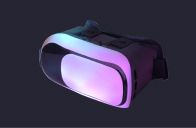
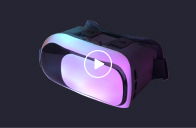
four commit

Changed region(s): [[0.4286, 0.375, 0.5816, 0.625]]

diff --git a/src/components/GetStarted/getStarted.module.scss b/src/components/GetStarted/getStarted.module.scss
@@ -1,0 +1,60 @@
+.getStarted {
+    margin-top: 200px;
+
+    &__neon {
+        color: transparent;
+        background-image: linear-gradient(to right, var(--linear-1), var(--linear-2));
+        background-clip: text;
+        text-transform: uppercase;
+        font-size: var(--caption-1-size);
+        font-weight: var(--caption-1-weight);
+        line-height: var(--caption-1-line);
+        letter-spacing: 5px;
+    }
+
+    &__head2 {
+        margin-top: 0;
+        width: 750px;
+        font-size: var(--head-2-size);
+        font-weight: var(--head-2-weight);
+        line-height: var(--head-2-line);
+        color: var(--white);
+        text-align: center;
+        letter-spacing: -1px;
+    }
+
+    &__video {
+        margin-bottom: 40px;
+    }
+
+    &__button {
+        margin-top: 30px;
+        max-width: 280px;
+        height: 76px;
+        padding: 1.5em 2.3em;
+        background: rgb(0, 255, 140);
+        box-shadow: 0 -150px 70px -120px rgb(0, 255, 208) inset,
+            0 -220px 70px -120px rgb(225, 0, 255) inset,
+            0 -220px 100px -120px rgb(200, 0, 255) inset;
+        background-position: 0 0;
+        border: 0;
+        text-transform: uppercase;
+        font-size: var(--button-1-size);
+        font-weight: var(--button-1-weight);
+        line-height: var(--button-1-line);
+        color: var(--white);
+        letter-spacing: 1.5px;
+        text-align: center;
+        animation: background 4s infinite alternate;
+        cursor: pointer;
+        transition: opacity 0.3s ease-in-out, box-shadow 0.3s ease-in-out;
+
+        &:hover {
+            opacity: 0.7;
+            box-shadow: 120px -150px 70px -120px rgb(28, 189, 160) inset,
+                120px -120px 70px -120px rgb(99, 208, 150) inset,
+                120px -180px 180px -180px rgb(255, 0, 136) inset;
+
+        }
+    }
+}

diff --git a/src/components/ChooseUs/ChooseUs.js b/src/components/ChooseUs/ChooseUs.js
@@ -19,8 +19,9 @@ function ChooseUs() {
                     <p>We are proud of our team of VR experts who are passionate about VR and dedicated to delivering the highest quality work. Our team consists of experienced VR developers, designers, and technicians who have a proven track record of creating immersive and engaging VR experiences.</p>
                 </details>
             </div>
-            <div>
-                <img src='/img/men3.svg' alt='men'/>
+            <div className='choose__media'>
+                <img className='media__men' src='/img/men3.svg' alt='men'/>
+                <img className='media__video' src='/img/video_choose.jpg' alt='video'/>
             </div>
         </div>
     );

diff --git a/src/components/AboutUs/aboutUs.module.scss b/src/components/AboutUs/aboutUs.module.scss
@@ -1,5 +1,13 @@
 .aboutUs {
     margin-top: 100px;
+    &__images{
+        position: relative;
+        .images__video{
+            position: absolute;
+            right: 250px;
+            bottom: 100px;
+        }
+    }
     &__texts {
         width: 562px;
         margin-top: 30px;
@@ -59,6 +67,7 @@
         text-align: center;
         animation: background 4s infinite alternate;
         cursor: pointer;
+        transition: opacity 0.3s ease-in-out, box-shadow 0.3s ease-in-out;
         &:hover{
             opacity: 0.7;
             box-shadow: 120px -150px 70px -120px rgb(28, 189, 160) inset,

diff --git a/src/components/GetStarted/GetStarted.js b/src/components/GetStarted/GetStarted.js
@@ -1,0 +1,16 @@
+import './getStarted.module.scss';
+
+
+function getStarted(){
+    return(
+        <div className='getStarted d-flex flex-column align-center'> 
+            <p className='getStarted__neon'>How get started</p>
+            <h1 className='getStarted__head2'>Bringing Your Virtual Reality Dreams to Life</h1>
+            <img className='getStarted__video' width={1200} height={522} src='/img/video__getStarted.jpg' alt='video'/>
+            <button className='getStarted__button'>Get started</button>
+        </div>
+    );
+}
+
+
+export default getStarted;

diff --git a/src/components/ChooseUs/chooseUs.module.scss b/src/components/ChooseUs/chooseUs.module.scss
@@ -1,6 +1,13 @@
 .choose {
     margin-top: 200px;
-
+    &__media{
+        position: relative;
+        .media__video{
+            position: absolute;
+            right: 120px;
+            bottom: 150px;
+        }
+    }
     &__texts {
         width: 700px;
 
@@ -48,6 +55,7 @@
                 line-height: var(--head-8-line);
                 padding-bottom: 10px;
                 border-bottom: 1px solid #FFFFFF59;
+                
 
             }
 

diff --git a/src/App.js b/src/App.js
@@ -6,6 +6,7 @@ import Insert from "./components/Insert/Insert";
 import AboutUs from "./components/AboutUs/AboutUs";
 import OurService from "./components/OurService/OurService";
 import ChooseUs from "./components/ChooseUs/ChooseUs";
+import GetStarted from "./components/GetStarted/GetStarted";
 
 function App() {
   
@@ -18,6 +19,7 @@ function App() {
       <AboutUs/>
       <OurService/>
       <ChooseUs/>
+      <GetStarted/>
     </div>
   );
 }

diff --git a/src/components/AboutUs/AboutUs.js b/src/components/AboutUs/AboutUs.js
@@ -6,6 +6,7 @@ function AboutUs(){
         <div className='aboutUs d-flex'>
             <div className='aboutUs__images'>
                 <img className='images__men' src='/img/men2.png' alt='men'/>
+                <img className='images__video' src='/img/video__about.jpg' alt='video'/>
             </div>
             <div className='aboutUs__texts d-flex flex-column '>
                 <p className='texts__caption1' title='About us'>About us</p>

diff --git a/src/components/Header/header.module.scss b/src/components/Header/header.module.scss
@@ -56,6 +56,7 @@
         text-align: center;
         animation: background 4s infinite alternate;
         cursor: pointer;
+        transition: opacity 0.3s ease-in-out, box-shadow 0.3s ease-in-out;
         &:hover{
             opacity: 0.7;
             box-shadow: 0 -150px 70px -120px rgb(28, 189, 160) inset,

diff --git a/src/index.scss b/src/index.scss
@@ -5,6 +5,7 @@
 @import './components/AboutUs/aboutUs.module.scss';
 @import './components/OurService/ourService.module.scss';
 @import './components/ChooseUs/chooseUs.module.scss';
+@import './components/GetStarted/getStarted.module.scss';
 
 body {
   margin: 0;
